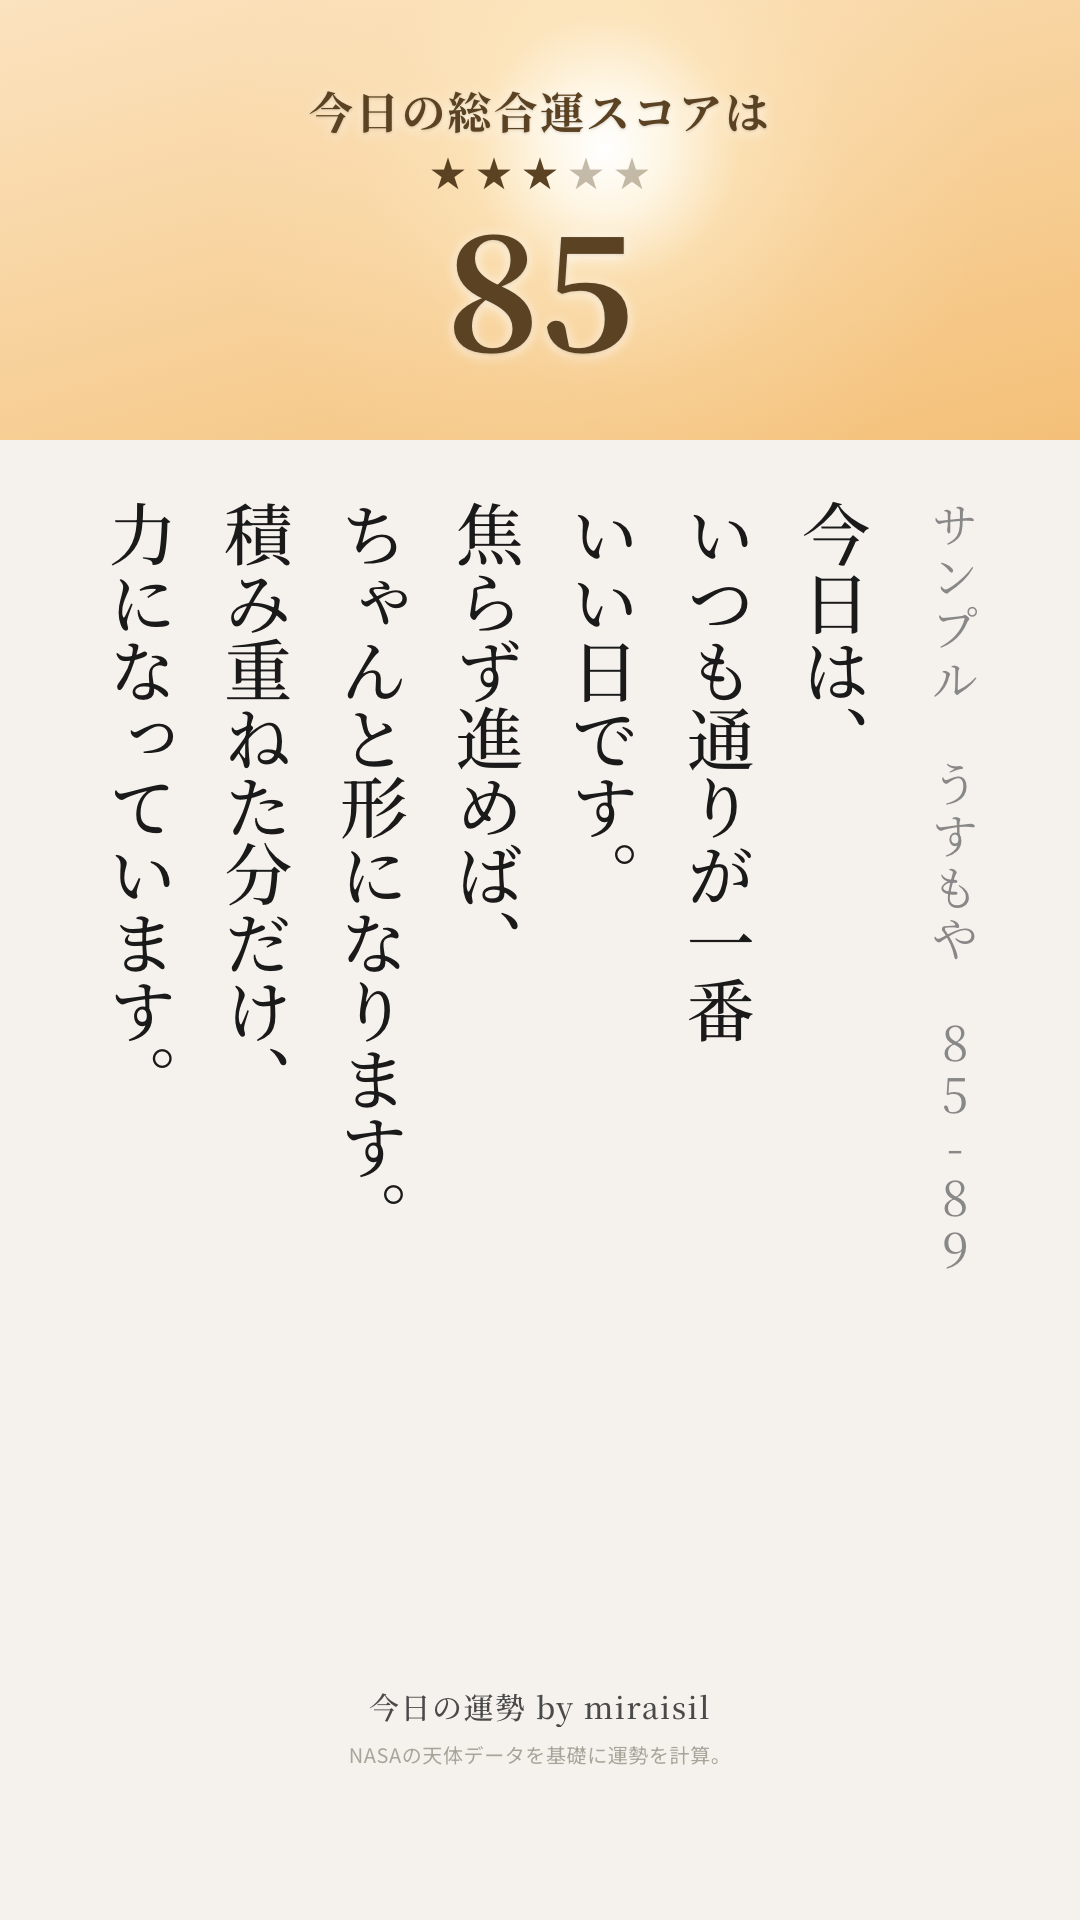
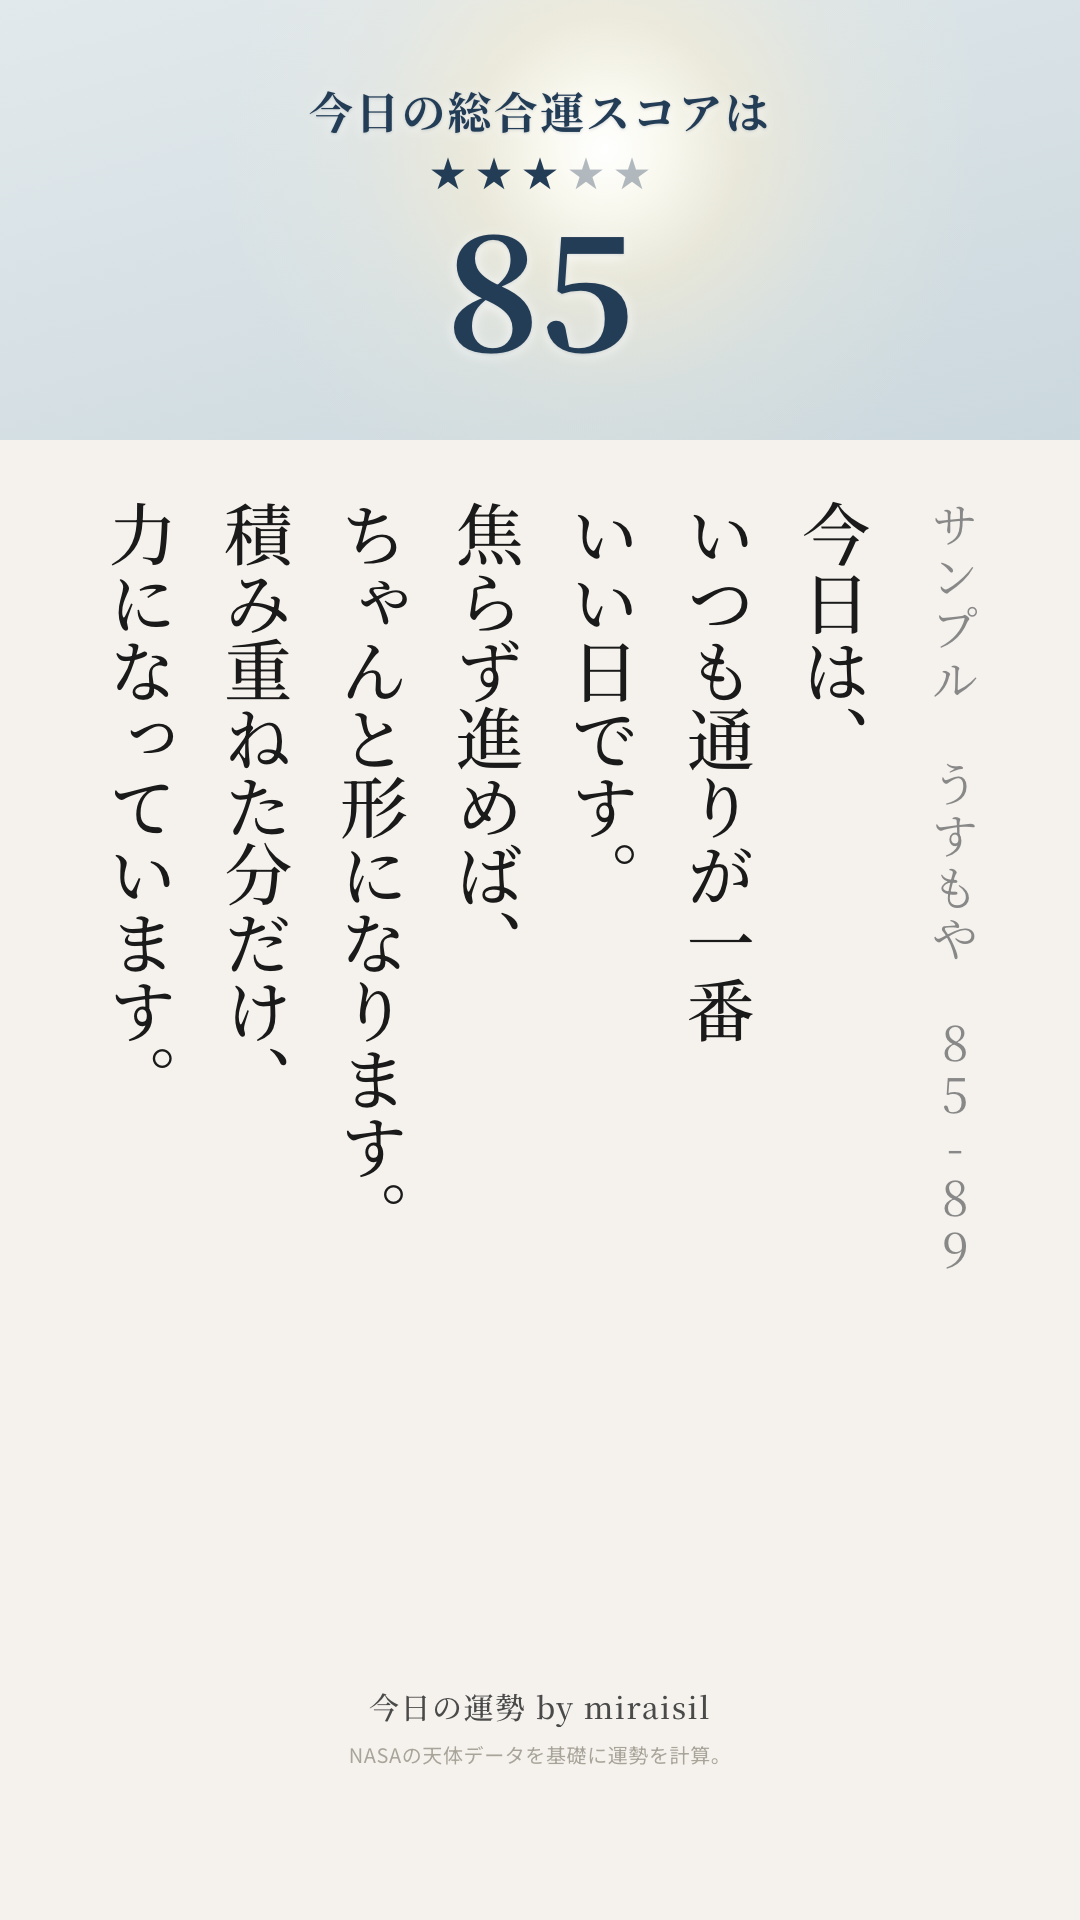
reintroduce blue at the top of the score band spectrum
Previous all-warm palette read as one shade of orange rather than a
sky. Brings back blue for the top 3 tiers (still no purple), with a
neutral beige tier at 80-84 cushioning the blue-to-warm transition,
descending through sunset orange to a dark-but-not-black floor.

Changed region(s): [[0.0, 0.0, 1.0, 0.25]]

diff --git a/sky-test/index.html b/sky-test/index.html
@@ -35,33 +35,34 @@
 （65-69）は廃止し、"静かな夕暮れ・残照"に置き換えた。
 </div>
 
-<h2>「天国の光→深い底」広域スペクトル版</h2>
+<h2>青を戻した空スペクトル版</h2>
 <div class="note">
-方針転換: 全部オレンジに見えてしまう団子状態を解消するため、色の幅を大きく広げた。
-上端(95-100)は「天に近い白金の光」、下端(65-69)は「深紅の底」まで、
-金→橙→赤→深い夕闇の暖色ラインを一直線に通す。紫・青は一切通さず、
-底も真っ黒には落とさず"深紅どまり"にして低スコアの人への配慮を保っている。<br>
-光の効果も強度を7段階で作り分けた: 95-100は強い光芒＋グローコア＋きらめき5個、
-90-94は弱い光芒＋グロー、85-89は柔らかいグローのみ、80-84はごく弱いグローのみ、
-75-79は低い位置の夕日、70-74は沈みかけの残光（弱）、65-69は底にわずかな
-残照のみ、と上ほど強く下ほど静かに絞っている。<br>
-70-74・65-69は背景が明確に暗くなったため、文字色を淡い生成り(#fbe6c8)に
-切り替えて可読性を確保（95-100〜75-79の5段は従来通り濃い金茶 #5a4222 のまま）。<br>
-輝度は246.7→233.6→214.7→185.2→138.7→66.9→30.0と谷なく単調に沈んでいくことを確認済み。
+方針転換: 前版が全部オレンジで「空」に見えなかったのを解消するため、高スコア側に
+青空を戻した。紫は引き続き不使用。上端(95-100)は澄んだ青空に太陽が白熱する空、
+80-84は青と暖色の境目を吸収する中立のうすもや帯、そこから75-79の夕焼け、
+70-74の深い夕闇を経て、65-69は真っ黒にはせず"暖色の深い闇"（深く沈んだ焦茶）で
+底を受け止める。<br>
+光の効果の強度配分は前版から変更なし（95-100が最も強く、下にいくほど静かに絞る）。
+青系の明るい帯(95-100〜85-89)は文字色を濃紺(#243d56)に、暖色の明るい帯
+(80-84・75-79)は濃い金茶(#5a4222)のまま、暗い帯(70-74・65-69)は淡い生成り
+(#fbe6c8)で可読性を確保。<br>
+色相は青(約200°)→中立ベージュ(約39°)→橙(約20-36°)→深い赤茶(約15°)へ地続きに
+移行し、紫域（270-320°付近）には一切入らないことを確認済み。
 </div>
 <div class="row">
-  <figure><img src="band_96.png"><figcaption>96点 白熱 95-100 ★5<br>#ffffff→#ffefc0</figcaption></figure>
-  <figure><img src="band_92.png"><figcaption>92点 好天 90-94 ★4<br>#fdf1da→#ffdf9e</figcaption></figure>
-  <figure><img src="band_85.png"><figcaption>85点 うすもや 85-89 ★3<br>#fbe3bf→#f4c078</figcaption></figure>
-  <figure><img src="band_82.png"><figcaption>82点 もや濃い 80-84 ★3<br>#f2c488→#e59a4c</figcaption></figure>
-  <figure><img src="band_77.png"><figcaption>77点 夕焼け 75-79 ★2<br>#dd8f47→#bd6329</figcaption></figure>
-  <figure><img src="band_72.png"><figcaption>72点 深い夕闇 70-74 ★2<br>#8f4020→#5a2410（文字は生成りに）</figcaption></figure>
-  <figure><img src="band_66.png"><figcaption>66点 深紅の底 65-69 ★1<br>#4a1810→#2a0e0a（文字は生成りに）</figcaption></figure>
+  <figure><img src="band_96.png"><figcaption>96点 白熱 95-100 ★5<br>#f2f8fb→#d2e6f2</figcaption></figure>
+  <figure><img src="band_92.png"><figcaption>92点 好天 90-94 ★4<br>#dcebf4→#bcd8ea</figcaption></figure>
+  <figure><img src="band_85.png"><figcaption>85点 うすもや 85-89 ★3<br>#e2e9ec→#cbd8de</figcaption></figure>
+  <figure><img src="band_82.png"><figcaption>82点 もや濃い 80-84 ★3<br>#e8e1d3→#d6c9b2（青⇄暖色の中立帯）</figcaption></figure>
+  <figure><img src="band_77.png"><figcaption>77点 夕焼け 75-79 ★2<br>#edcb99→#dba465</figcaption></figure>
+  <figure><img src="band_72.png"><figcaption>72点 深い夕闇 70-74 ★2<br>#b56e3e→#7e3f20（文字は生成りに）</figcaption></figure>
+  <figure><img src="band_66.png"><figcaption>66点 深く沈んだ底 65-69 ★1<br>#3a1c12→#1a0c08（文字は生成りに）</figcaption></figure>
 </div>
 <div class="note">
-7段階を横に並べた状態で、上端の光と下端の深紅の底まで金→橙→赤→深闇で地続きに
-繋がっているか、中間（85/82/77）が団子にならず見分けられるか、紫/青/真っ黒が
-無いかを確認してください。
+7段階を横に並べた状態で、上端の青空〜下端の深い底まで青→中立→夕焼け→深闇で
+地続きに繋がっているか、中間（85/82/77）が見分けられるか、単独1枚でも
+上か下か伝わるか、紫・真っ黒が無いかを確認してください。80-84の中立帯で
+青→暖色の段差が自然に吸収できているかも見てください。
 </div>
 </body>
 </html>
